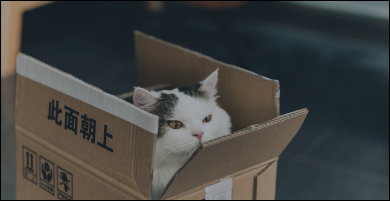
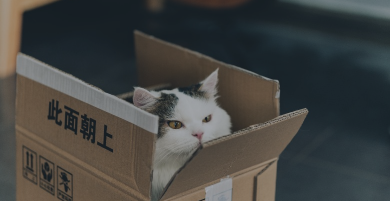
feat: Header Component Loader ui

Changed region(s): [[0.0, 0.0, 1.0, 1.0]]

diff --git a/src/screens/CreatePost/Name.tsx b/src/screens/CreatePost/Name.tsx
@@ -3,6 +3,7 @@ import { useNavigate } from "react-router-dom";
 import { useHeight } from "../../hooks";
 import { Button, Input, buttonVariants } from "../../ui";
 import { DotStep } from "../../components/Auth";
+import { HeaderLoader } from "../../components";
 
 import CreatePostHeader from "../../assets/images/create-post-name.png";
 
@@ -17,13 +18,7 @@ export default function Name() {
   return (
     <div style={styleHeight}>
       <div className="h-full">
-        <div className="relative h-[200px]">
-          <img
-            src={CreatePostHeader}
-            alt=""
-            className="w-full h-full object-cover"
-          />
-        </div>
+        <HeaderLoader imgCmp={CreatePostHeader} />
 
         <div className="flex flex-col justify-between px-5 py-7 h-[calc(100%_-_200px)]">
           <Input placeholder="Nombre del producto" />

diff --git a/src/screens/CreatePost/Status.tsx b/src/screens/CreatePost/Status.tsx
@@ -4,6 +4,7 @@ import { DotStep } from "../../components/Auth";
 
 import CreatePostHeader from "../../assets/images/create-post-status.png";
 import { useNavigate } from "react-router-dom";
+import { HeaderLoader } from "../../components";
 
 export default function Status() {
   const navigate = useNavigate();
@@ -12,13 +13,7 @@ export default function Status() {
   return (
     <div style={styleHeight}>
       <div className="h-full">
-        <div className="relative h-[200px]">
-          <img
-            src={CreatePostHeader}
-            alt=""
-            className="w-full h-full object-cover"
-          />
-        </div>
+        <HeaderLoader imgCmp={CreatePostHeader} />
 
         <div className="flex flex-col justify-between px-5 py-7 h-[calc(100%_-_200px)]">
           <div></div>

diff --git a/src/components/HeaderLoader.tsx b/src/components/HeaderLoader.tsx
@@ -1,0 +1,23 @@
+import { useState } from "react";
+import { LazyLoadImage } from "react-lazy-load-image-component";
+
+interface HeaderLoaderProps {
+  imgCmp: any;
+}
+
+export default function HeaderLoader({ imgCmp }: HeaderLoaderProps) {
+  const [imageLoaded, setImageLoaded] = useState<boolean>(false);
+
+  return (
+    <div className="relative h-[200px]">
+      <LazyLoadImage
+        src={imgCmp}
+        alt="Imagen"
+        className={`w-full h-full ${
+          imageLoaded ? "loaded" : "loading"
+        }`}
+        afterLoad={() => setImageLoaded(true)}
+      />
+    </div>
+  );
+}

diff --git a/src/main.tsx b/src/main.tsx
@@ -2,7 +2,6 @@ import ReactDOM from "react-dom/client";
 
 import App from "./App";
 import "./index.css";
-import "react-lazy-load-image-component/src/effects/blur.css";
 import { AuthenticatedProvider } from "./context";
 
 ReactDOM.createRoot(document.getElementById("root")!).render(

diff --git a/src/index.css b/src/index.css
@@ -70,3 +70,13 @@
 .link-inactive path {
   fill: #a9abb0;
 }
+
+.loaded {
+  filter: none;
+  transition: filter 0.3s ease-in-out;
+}
+
+.loading {
+  filter: blur(10px); /* o el valor de desenfoque que necesites */
+  transition: filter 0.3s ease-in-out;
+}

diff --git a/src/components/index.ts b/src/components/index.ts
@@ -1,3 +1,4 @@
 export { default as Navbar } from "./Navbar";
 export { default as Layout } from "./Layout";
 export { default as BackButton } from "./BackBtn";
+export { default as HeaderLoader } from "./HeaderLoader";
